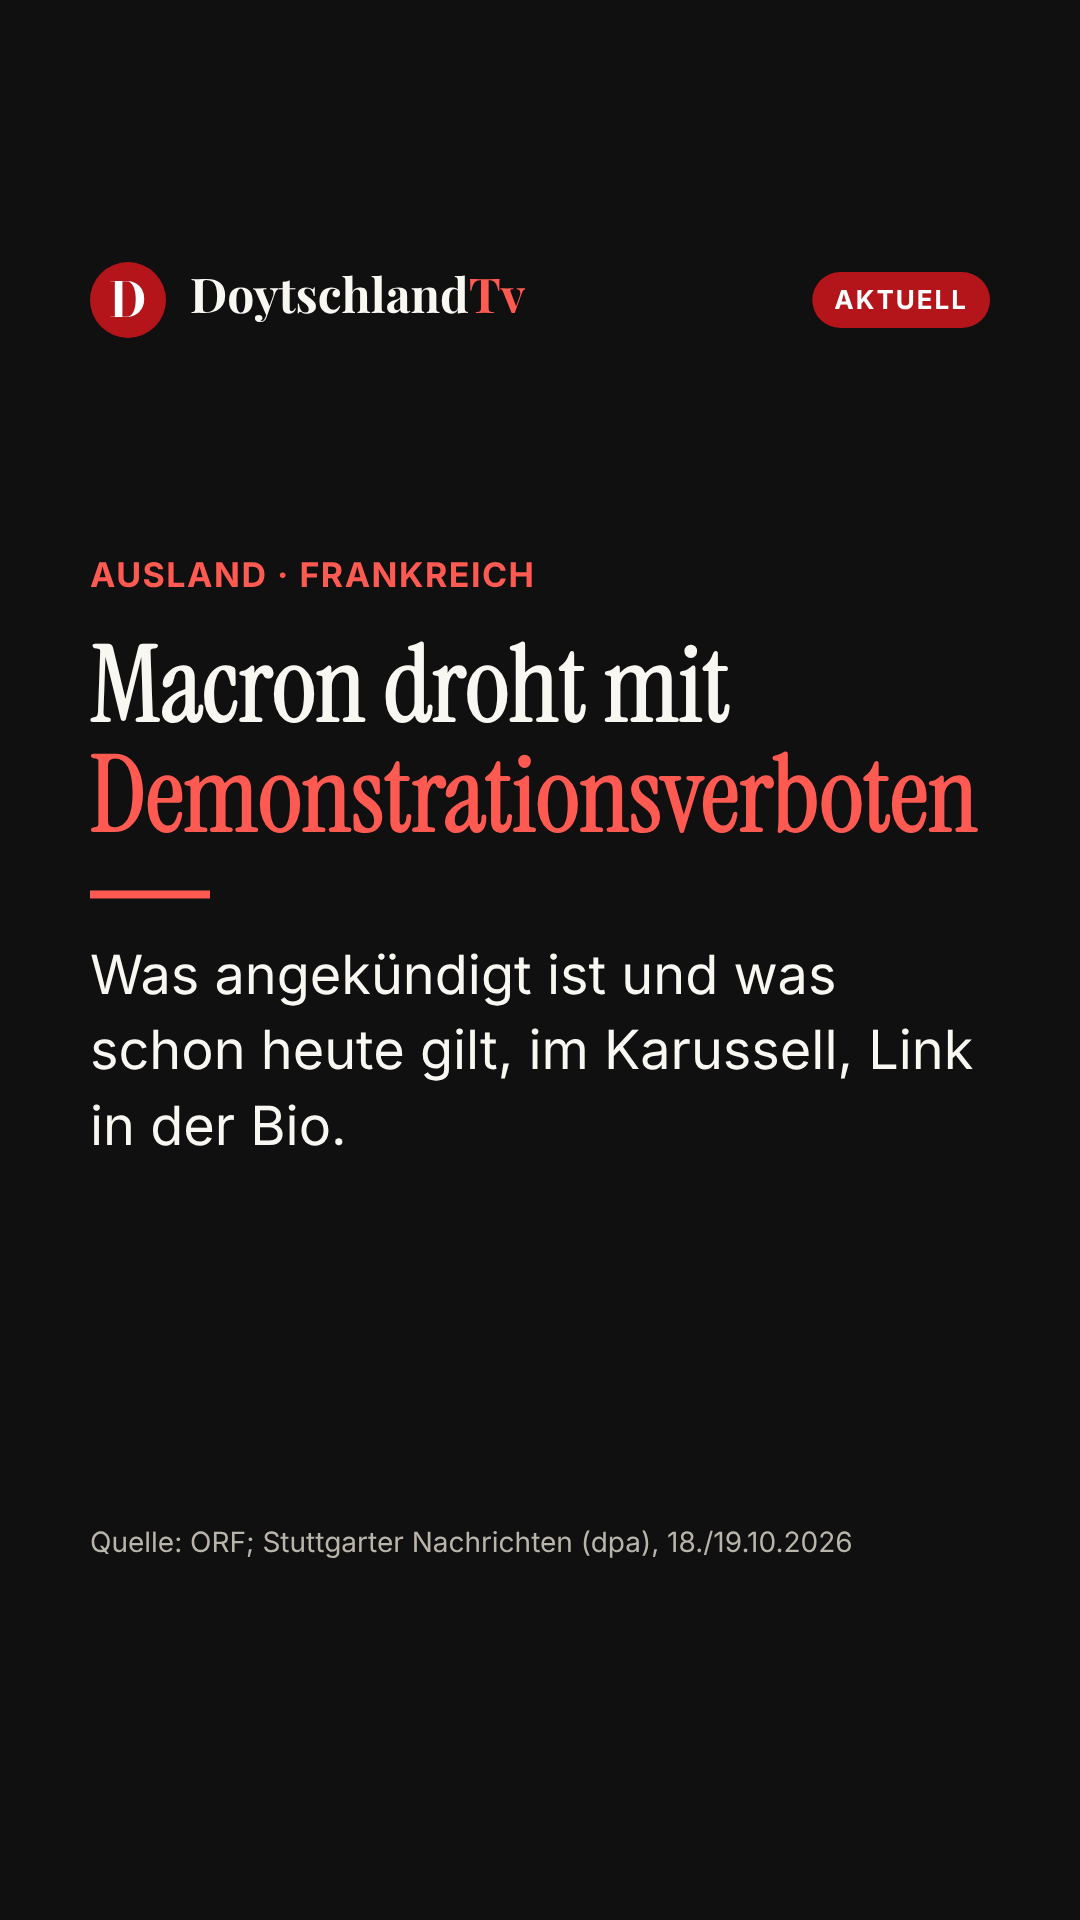
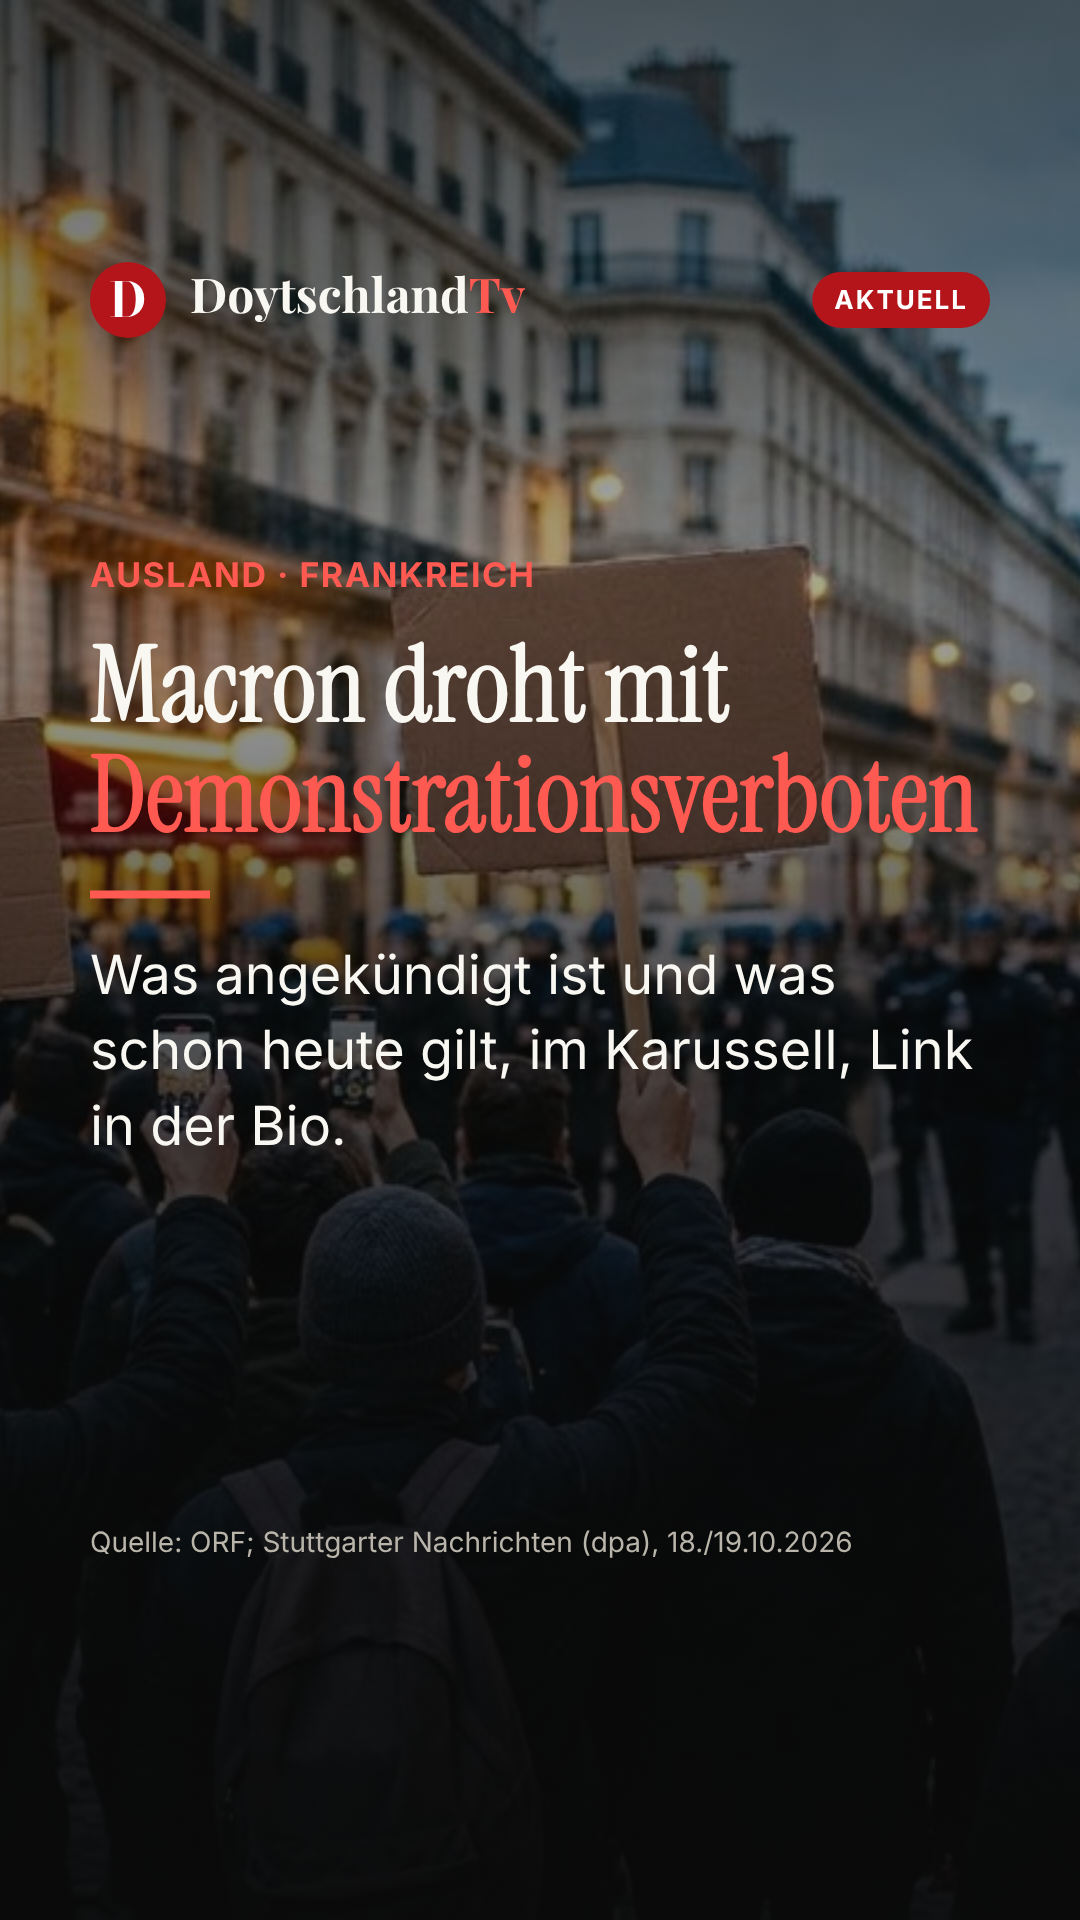
Storys Macron und Migration: Titelbild
Claude-Session: https://claude.ai/code/session_01HADCkE2LZJHKQCUdz9XwMJ

diff --git a/briefings.js b/briefings.js
@@ -593,7 +593,12 @@ window.BRIEFINGS = [
     "rot": "Demonstrationsverboten",
     "text": "Was angekündigt ist und was schon heute gilt, im Karussell, Link in der Bio.",
     "quelle": "ORF; Stuttgarter Nachrichten (dpa), 18./19.10.2026",
-    "theme": "dark"
+    "theme": "dark",
+    "bild": {
+     "url": "titel-macron.jpg",
+     "fokus": 0.5,
+     "unter": "Illustration, KI-generiert, kein Foto"
+    }
    },
    {
     "zusatz": true,
@@ -604,7 +609,12 @@ window.BRIEFINGS = [
     "rot": "400-Milliarden-Zahl",
     "text": "Antrag, Zahlen und Studienlage, im Karussell, Link in der Bio.",
     "quelle": "Deutscher Bundestag; BA; IZA, 2024–2026",
-    "theme": "dark"
+    "theme": "dark",
+    "bild": {
+     "url": "titel-migration.jpg",
+     "fokus": 0.5,
+     "unter": "Illustration, KI-generiert, kein Foto"
+    }
    },
    {
     "zusatz": true,
